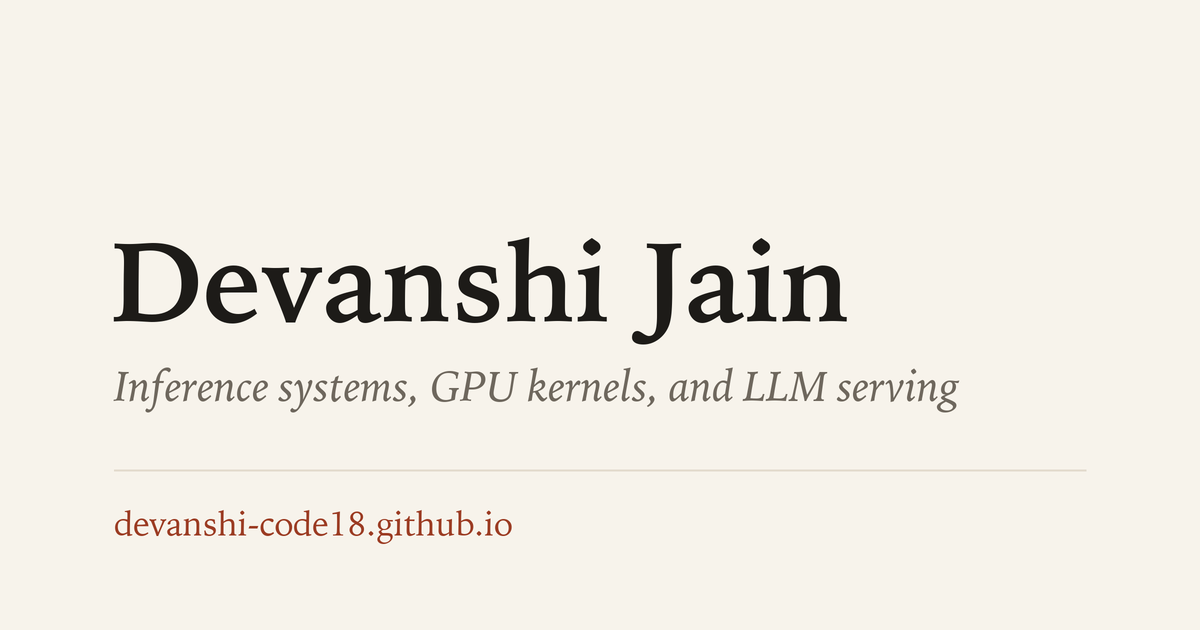
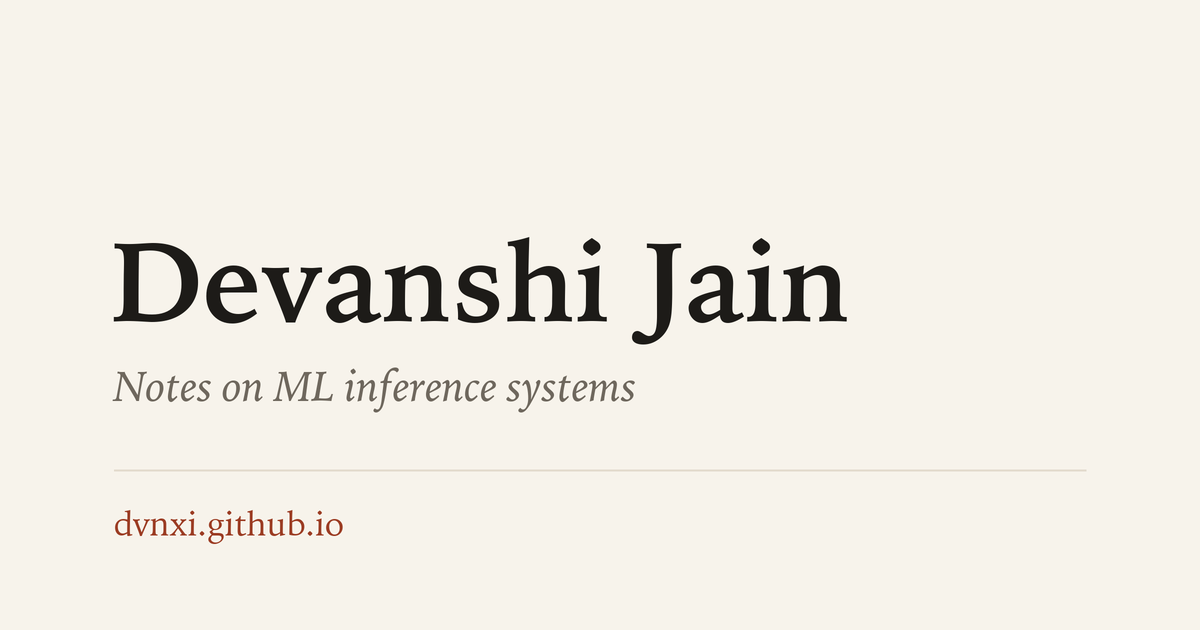
move to dvnxi.github.io

Changed region(s): [[0.0925, 0.573, 0.8017, 0.6635], [0.0925, 0.8143, 0.4317, 0.8746]]

diff --git a/src/site.js b/src/site.js
@@ -5,7 +5,7 @@ export const SITE = {
   shortName: 'Devanshi',
   // One line at the top of the blog page.
   tagline: 'Notes on ML inference systems: LLM serving, GPU kernels, and making models cheaper to run.',
-  url: 'https://devanshi-code18.github.io',
+  url: 'https://dvnxi.github.io',
   // Used for search results and link previews.
   description: 'Devanshi Jain writes about ML inference systems: serving, GPU kernels, and making models cheaper to run.',
   // The two sentences at the top of the home page. Plain HTML is fine.

diff --git a/README.md b/README.md
@@ -1,6 +1,6 @@
-# devanshi-code18.github.io
+# dvnxi.github.io
 
-My personal site and blog: https://devanshi-code18.github.io
+My personal site and blog: https://dvnxi.github.io
 
 Built with [Astro](https://astro.build). Minimal on purpose: a blog home page that lists posts, an About page, and posts with a contents box (long posts), a cite box, and copy buttons on code. Every push to `main` publishes the site with GitHub Actions in about a minute. It also rebuilds every night, so the open-source list on the home page picks up newly merged pull requests by itself.
 
